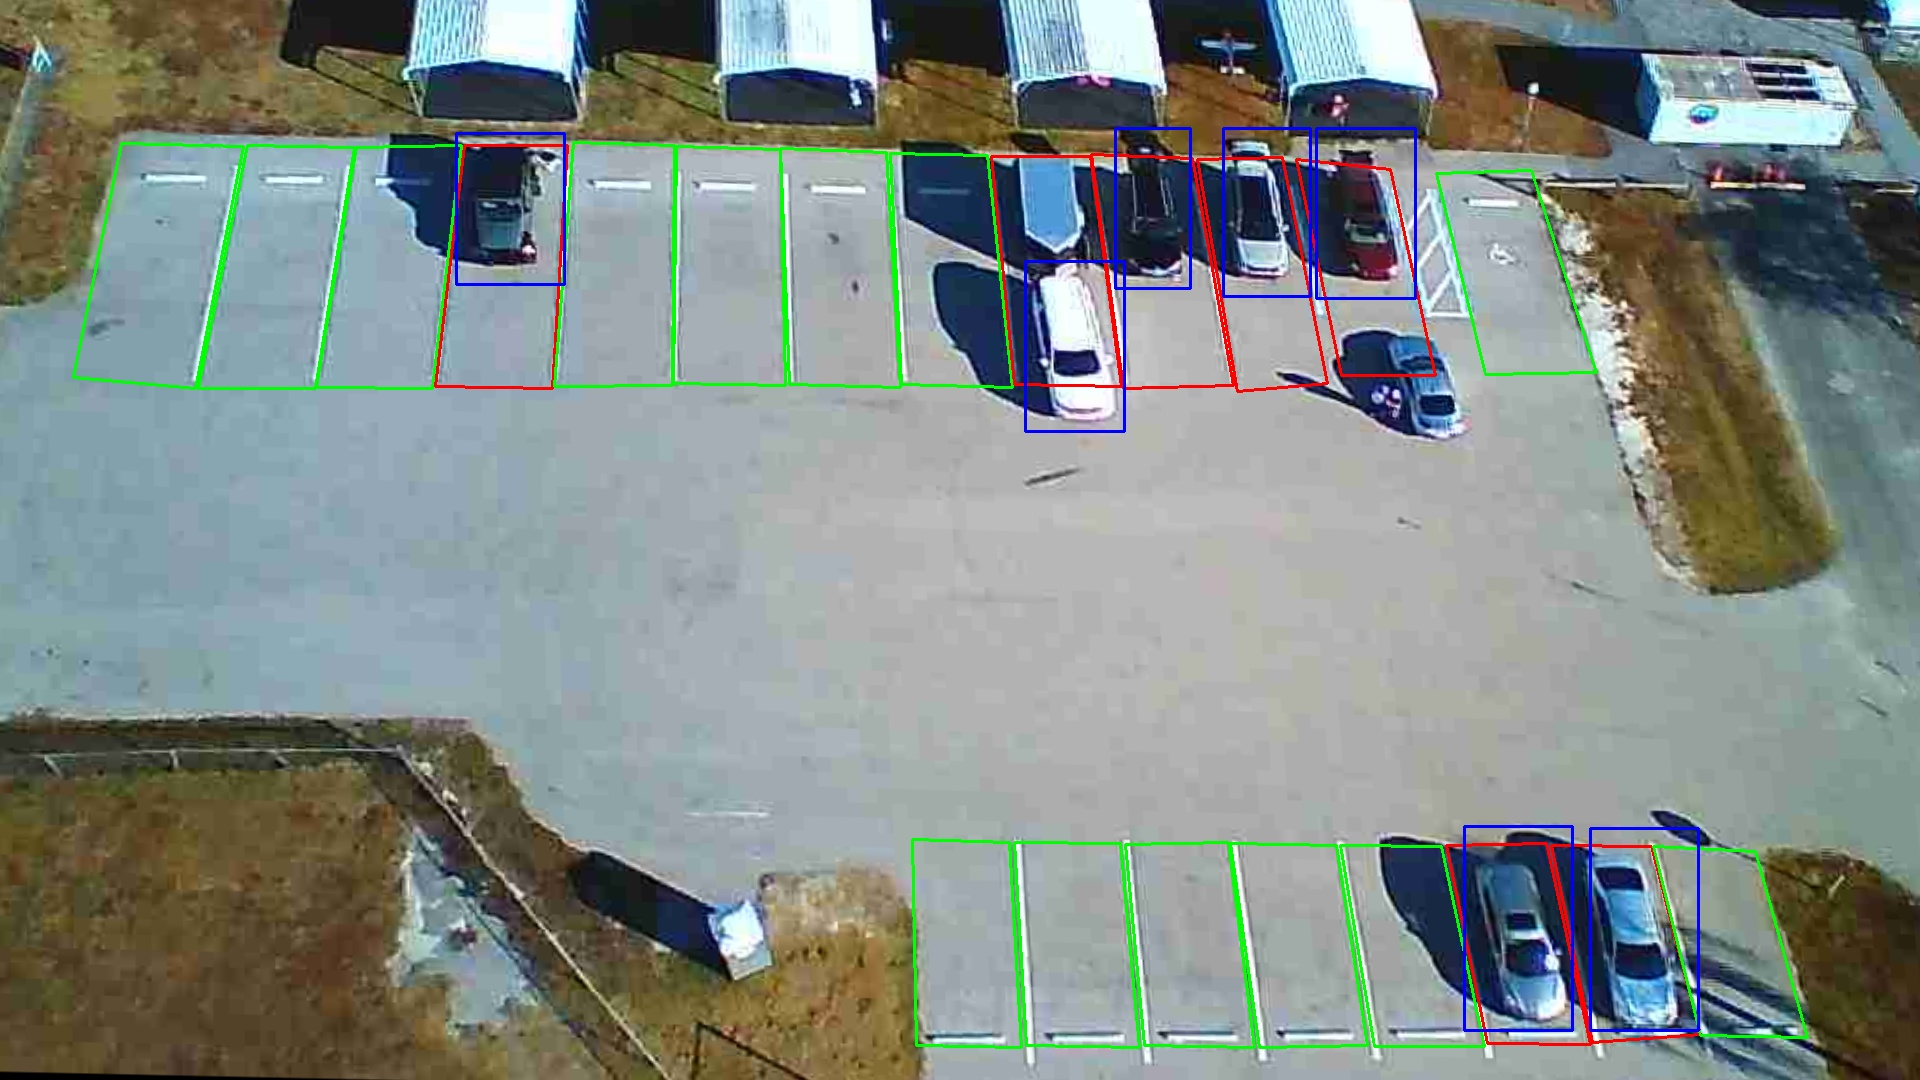
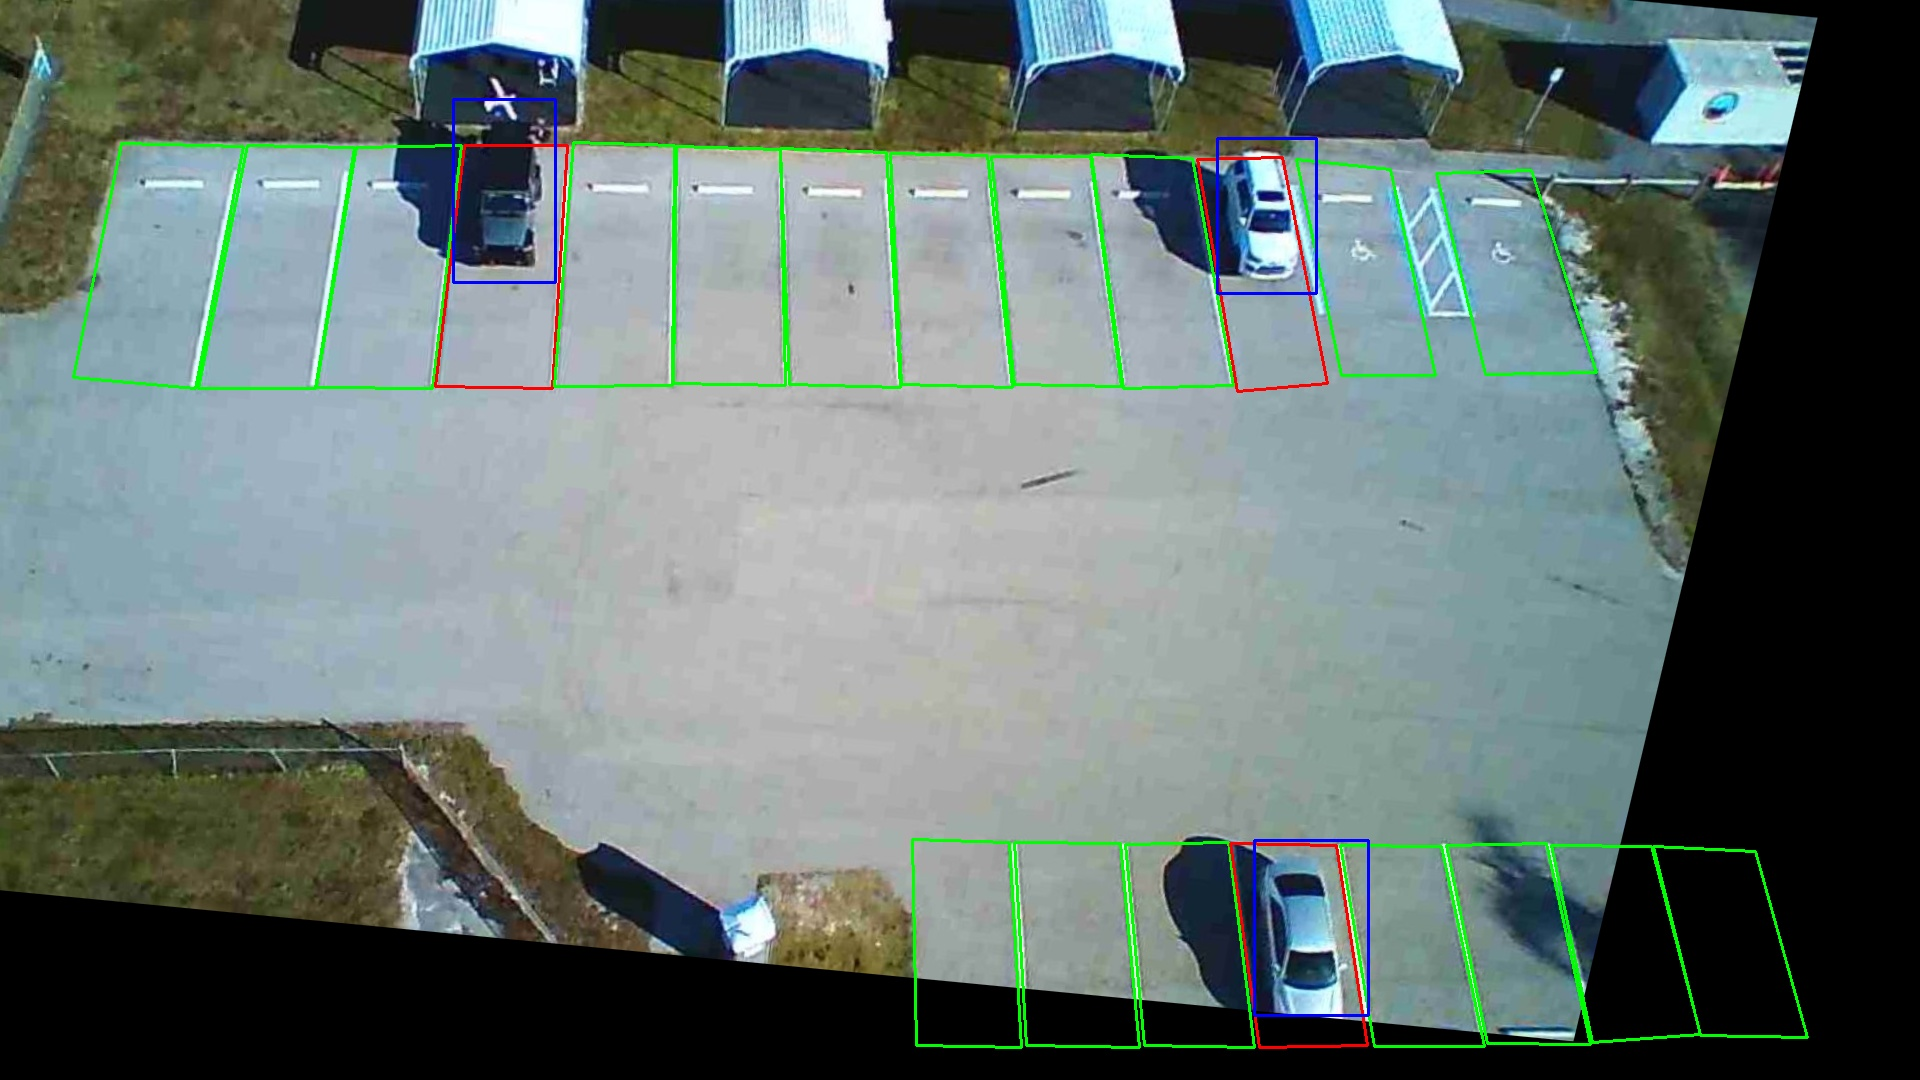
added main.py changes

diff --git a/drone_parking_backend/main.py b/drone_parking_backend/main.py
@@ -7,7 +7,7 @@ import pickle
 import os
 
 app = FastAPI()
-
+print("LOADING NEW MAIN.PY")
 
 # Initialize Roboflow
 rf = Roboflow(api_key="crcxvzrMUhqJYcyMcpW8")
@@ -15,47 +15,65 @@ project = rf.workspace("drone-parking-management-system").project("drone-parking
 model = project.version(3).model
 
 # Load Parking Data
-MASTER_IMAGE_PATH = "master_lot.JPG"
-PARKING_DATA_PATH = "parking_data.pkl"
+LOT_DIR = "lots"
 
-master_img = cv2.imread(MASTER_IMAGE_PATH)
-if master_img is None:
-    raise RuntimeError(f"Failed to load master image: {MASTER_IMAGE_PATH}")
+def load_lot(lot_id):
+    lot_path = os.path.join(LOT_DIR, lot_id)
+    master_path = os.path.join(lot_path, "master.jpg")
+    parking_path = os.path.join(lot_path, "parking.pkl")
 
-master_gray = cv2.cvtColor(master_img, cv2.COLOR_BGR2GRAY)
+    if not os.path.exists(master_path):
+        return None, None, f"Master image missing for {lot_id}"
 
-orb = cv2.ORB_create(5000)
-kp_master, des_master = orb.detectAndCompute(master_gray, None)
+    if not os.path.exists(parking_path):
+        return None, None, f"Parking data missing for {lot_id}"
 
-with open(PARKING_DATA_PATH, "rb") as f:
-    parking_data = pickle.load(f)
+    master_img = cv2.imread(master_path)
+
+    with open(parking_path, "rb") as f:
+        parking_data = pickle.load(f)
+
+    return master_img, parking_data, None
 
 
-def align_to_master(input_img):
-    gray1 = cv2.cvtColor(master_img, cv2.COLOR_BGR2GRAY)
-    gray2 = cv2.cvtColor(input_img, cv2.COLOR_BGR2GRAY)
+def align_to_master(master, new_img):
+    gray1 = cv2.cvtColor(master, cv2.COLOR_BGR2GRAY)
+    gray2 = cv2.cvtColor(new_img, cv2.COLOR_BGR2GRAY)
 
     orb = cv2.ORB_create(5000)
     kp1, des1 = orb.detectAndCompute(gray1, None)
     kp2, des2 = orb.detectAndCompute(gray2, None)
 
+    if des1 is None or des2 is None:
+        return new_img, None
+
     matcher = cv2.BFMatcher(cv2.NORM_HAMMING, crossCheck=True)
     matches = matcher.match(des1, des2)
-    matches = sorted(matches, key=lambda x: x.distance)[:200]
+
+    matches = sorted(matches, key=lambda x: x.distance)
+    matches = matches[:200]
 
     pts1 = np.float32([kp1[m.queryIdx].pt for m in matches])
     pts2 = np.float32([kp2[m.trainIdx].pt for m in matches])
 
     H, _ = cv2.findHomography(pts2, pts1, cv2.RANSAC)
 
-    aligned = cv2.warpPerspective(input_img, H,
-                                  (master_img.shape[1], master_img.shape[0]))
+    if H is None:
+        return new_img, None
 
+    aligned = cv2.warpPerspective(new_img, H, (master.shape[1], master.shape[0]))
     return aligned, H
 
 
-@app.post("/detect")
-async def detect_parking(file: UploadFile = File(...)):
+@app.post("/detect/{lot_id}")
+async def detect_parking(lot_id: str, file: UploadFile = File(...)):
+
+    # ---- Load lot config ----
+    master_img, parking_data, err = load_lot(lot_id)
+    if err:
+        return {"error": err}
+
+    # ---- Read uploaded image ----
     contents = await file.read()
     nparr = np.frombuffer(contents, np.uint8)
     image = cv2.imdecode(nparr, cv2.IMREAD_COLOR)
@@ -63,55 +81,67 @@ async def detect_parking(file: UploadFile = File(...)):
     if image is None:
         return {"error": "Image decode failed"}
 
-    # Align to master
-    aligned_img, H = align_to_master(image)
+    # Save raw debug
+    os.makedirs("debug", exist_ok=True)
+    cv2.imwrite("debug/raw.jpg", image)
 
-    # Save aligned image for Roboflow
-    cv2.imwrite("aligned.jpg", aligned_img)
+    # ---- Align to master ----
+    aligned, H = align_to_master(master_img, image)
 
-    # Run detection on aligned image
-    rf_pred = model.predict("aligned.jpg", confidence=40, overlap=30).json()
-    predictions = rf_pred["predictions"]
+    # ---- Roboflow detection ----
+    cv2.imwrite("debug/aligned.jpg", aligned)
+    pred = model.predict("debug/aligned.jpg", confidence=40, overlap=30).json()
+    detections = pred["predictions"]
 
     boxes = []
-    for p in predictions:
-        x, y, w, h = p["x"], p["y"], p["width"], p["height"]
+    for d in detections:
+        x, y, w, h = d["x"], d["y"], d["width"], d["height"]
         x1, y1 = int(x - w/2), int(y - h/2)
         x2, y2 = int(x + w/2), int(y + h/2)
-        boxes.append([x1, y1, x2, y2])
+        boxes.append((x1, y1, x2, y2))
 
+    # ---- Occupancy ----
     occupied = []
     free = []
-    vis = aligned_img.copy()
 
-    # Compare in MASTER coordinate space
+    vis = aligned.copy()
+
     for spot in parking_data:
         polygon = np.array(spot[0], np.int32)
         spot_id = spot[1]
+
         is_occ = False
-
         for box in boxes:
-            cx = int((box[0]+box[2])/2)
-            cy = int((box[1]+box[3])/2)
-
-            if cv2.pointPolygonTest(polygon, (cx,cy), False) >= 0:
+            cx = int((box[0] + box[2]) / 2)
+            cy = int((box[1] + box[3]) / 2)
+            if cv2.pointPolygonTest(polygon, (cx, cy), False) >= 0:
                 is_occ = True
                 break
 
         if is_occ:
             occupied.append(spot_id)
-            cv2.polylines(vis, [polygon], isClosed=True, color=(0, 0, 255), thickness=2)
+            color = (0,0,255)
         else:
             free.append(spot_id)
-            cv2.polylines(vis, [polygon], isClosed=True, color=(0, 255, 0), thickness=2)
+            color = (0,255,0)
 
+        cv2.polylines(vis, [polygon], True, color, 2)
+        cx = int(np.mean(polygon[:,0]))
+        cy = int(np.mean(polygon[:,1]))
+        cv2.putText(vis, spot_id, (cx,cy),
+                    cv2.FONT_HERSHEY_SIMPLEX, 0.5, color, 2)
+
+    # Draw car boxes
     for box in boxes:
-        cv2.rectangle(vis, (box[0], box[1]), (box[2], box[3]), (255, 0, 0), 2)
-    cv2.imwrite("debug_labeled.jpg", vis)
+        cv2.rectangle(vis, (box[0],box[1]), (box[2],box[3]), (255,0,0), 2)
+
+    cv2.imwrite("debug/labeled.jpg", vis)
+
     return {
+        "lot": lot_id,
         "occupied": occupied,
         "free": free,
         "total_detected": len(boxes),
-        "debug_image": "debug_labeled.jpg"
+        "debug_image": "debug/labeled.jpg"
     }
 # To run this: python -m uvicorn main:app --reload
